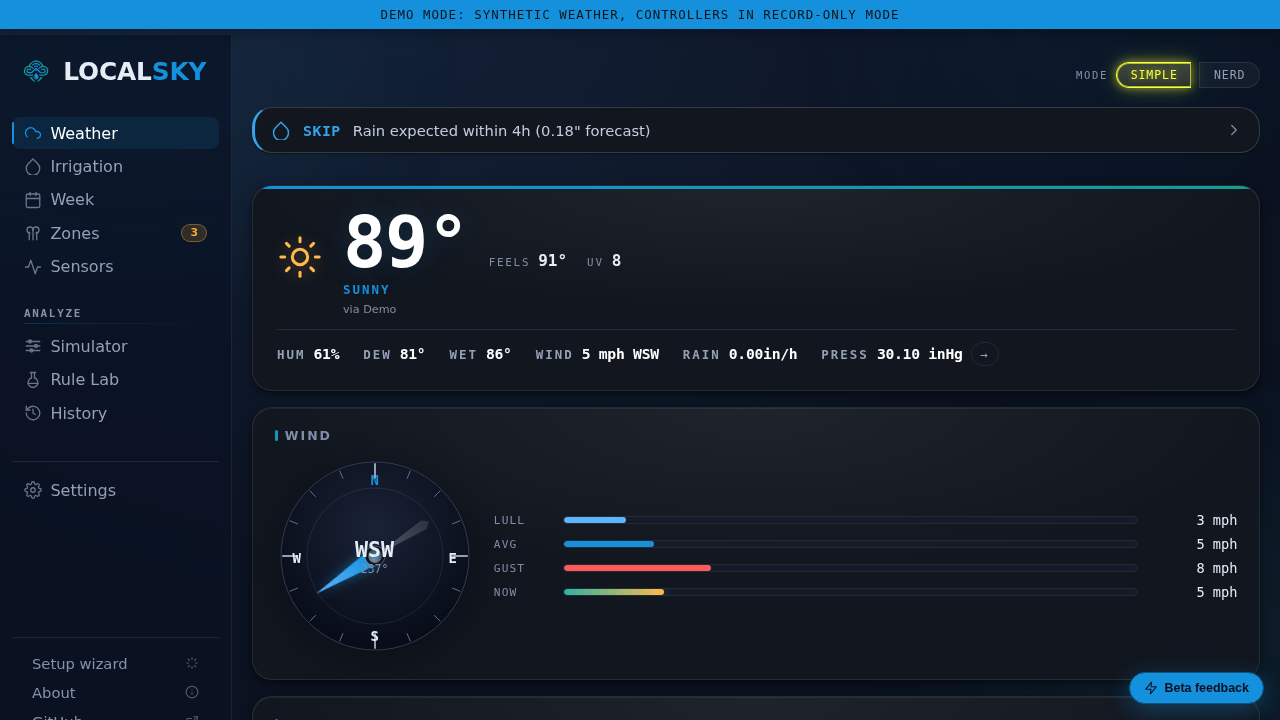
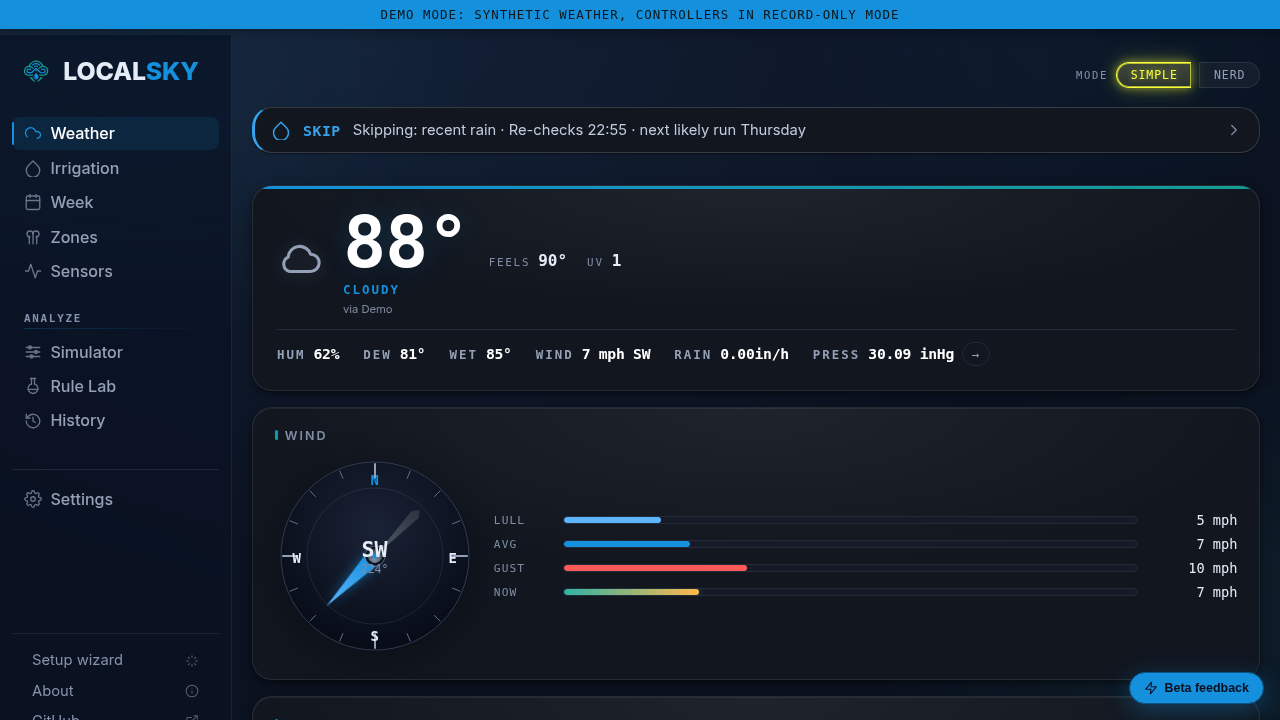
Keep documentation values intact at narrow widths (#13)
* Keep guide values intact and let descriptions wrap

* Preserve arrow-key scrolling for wide guide tables

diff --git a/docs/theme/css/product.css b/docs/theme/css/product.css
@@ -9,8 +9,17 @@
 .content main > h2 { margin-top: 2.7rem; font-size: 2rem; }
 .content main > p, .content main > ul, .content main > ol { max-width: 76ch; }
 .content main img { border-radius: 12px; }
-.content table { display: block; width: max-content; max-width: 100%; overflow-x: auto; margin: 1.5rem 0; }
-.content table td, .content table th { padding: .65rem .85rem; line-height: 1.5; }
+/* Values set the minimum column width; prose uses the remaining space.
+   mdBook's wrapper owns overflow when an intact value cannot fit the page. */
+.content .table-wrapper { max-width: 100%; overflow-x: auto; margin: 1.5rem 0; }
+.content table { display: table; width: 100%; table-layout: auto; margin: 0; }
+.content table td, .content table th {
+  padding: .65rem .85rem; line-height: 1.5; vertical-align: top;
+  white-space: normal; overflow-wrap: normal; word-break: normal;
+}
+.content table code, .content table .ls-value {
+  white-space: nowrap; overflow-wrap: normal; word-break: normal;
+}
 .content table th { text-align: left; }
 .content a:focus-visible { outline: 3px solid var(--links); outline-offset: 4px; border-radius: 3px; }
 .content [tabindex="0"]:focus-visible { outline: 2px solid var(--links); outline-offset: 2px; }

diff --git a/docs/theme/js/product.js b/docs/theme/js/product.js
@@ -1,13 +1,22 @@
 // Make overflowing examples and tables reachable with a keyboard.
 (() => {
   const update = () => {
-    document.querySelectorAll('main pre code, main table').forEach(element => {
+    document.querySelectorAll('main pre code, main .table-wrapper').forEach(element => {
       if (element.scrollWidth > element.clientWidth + 1) element.setAttribute('tabindex', '0');
       else element.removeAttribute('tabindex');
     });
   };
   if (document.readyState === 'loading') document.addEventListener('DOMContentLoaded', update);
   else update();
+  // Keep mdBook's chapter shortcuts from taking over a focused scroll area.
+  // Leave the browser's default arrow-key scrolling intact.
+  document.addEventListener('keydown', event => {
+    if (event.altKey || event.ctrlKey || event.metaKey || event.shiftKey) return;
+    if (event.key !== 'ArrowLeft' && event.key !== 'ArrowRight') return;
+    if (event.target.matches('main .table-wrapper[tabindex="0"], main pre code[tabindex="0"]')) {
+      event.stopPropagation();
+    }
+  }, true);
   let pending = false;
   window.addEventListener('resize', () => {
     if (pending) return;

diff --git a/tests/api_deprecations.rs b/tests/api_deprecations.rs
@@ -1,6 +1,6 @@
 // The v1 deprecation record, enforced.
 //
-// Every field api.md lists as deprecated carries a DEPRECATED note on
+// Every field api-versions.md lists as deprecated carries a DEPRECATED note on
 // its struct field, and the number of places in src/ that read each one
 // is pinned: a new reader of a deprecated field fails this test, which
 // is the plan's rule for this release ("no new consumer of a deprecated
@@ -90,12 +90,12 @@ fn every_deprecated_field_is_marked_in_the_source() {
 
 #[test]
 fn every_deprecated_field_is_in_the_api_docs_table() {
-    let api = std::fs::read_to_string(root().join("docs/src/api.md")).unwrap();
+    let api = std::fs::read_to_string(root().join("docs/src/api-versions.md")).unwrap();
     let table = api
         .split("### Deprecated on v1")
         .nth(1)
         .expect("the table exists");
-    let table = table.split("### Migration notes").next().unwrap();
+    let table = table.split("## Migration notes").next().unwrap();
     for (field, _) in DEPRECATED {
         assert!(
             table.contains(&format!("`{field}`")) || table.contains(&format!("[].{field}`")),

diff --git a/CONTRIBUTING.md b/CONTRIBUTING.md
@@ -58,6 +58,8 @@ python3 -m unittest discover -s .github/scripts -p 'test_doc_*.py' -v
 
 The Documentation workflow builds the guide and checks links, accessibility, mobile layout, and API examples.
 
+Keep displayed values intact: never split an identifier, separate a number from its unit, or truncate a value to fit a column. Let descriptions wrap and rows grow. In guide tables, use inline code for identifiers and `<span class="ls-value">12 mm</span>` for a number with its unit. If intact values exceed the available width, the table should scroll within the page and remain usable with a keyboard. Check narrow screens as well as desktop.
+
 ## Device and science changes
 
 A weather adapter must report capabilities, timestamps, units, and unavailable readings accurately. A successful poll must not make an old observation appear fresh.

diff --git a/DESIGN.md b/DESIGN.md
@@ -49,6 +49,14 @@ of settings Save/Reset/Add/Delete, dialog confirm/cancel, toolbar actions.
 When in doubt: if it's a standalone "do this thing" action, it's a `<Button>`; if it's
 part of a custom control (a group, a chip rail, a slider), it stays.
 
+## Values and descriptions
+
+Keep each value together, including its unit. Do not split identifiers across
+lines, clip values, or replace them with an ellipsis. Let the description wrap
+and the row grow before taking space away from the value. When a table cannot
+fit intact values, allow horizontal scrolling within the table, including by
+keyboard. Apply this rule to the app and documentation at every screen size.
+
 ## Spacing
 
 Use the `--space-0 … --space-9` scale. No bare `px`/`rem` for spacing. Allowed bare
